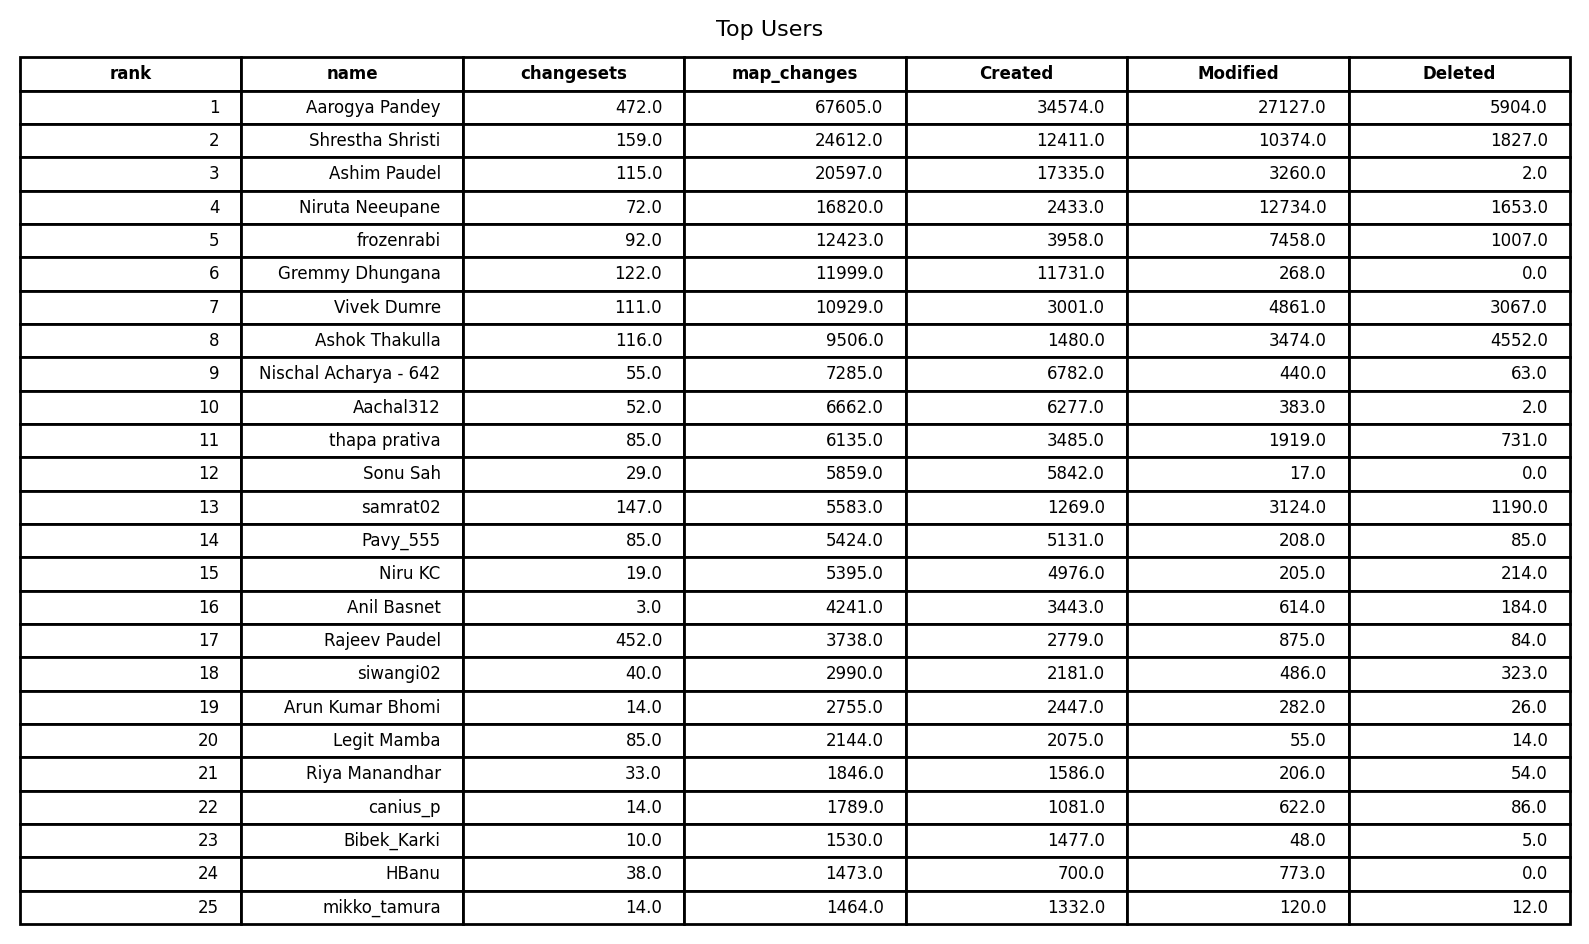
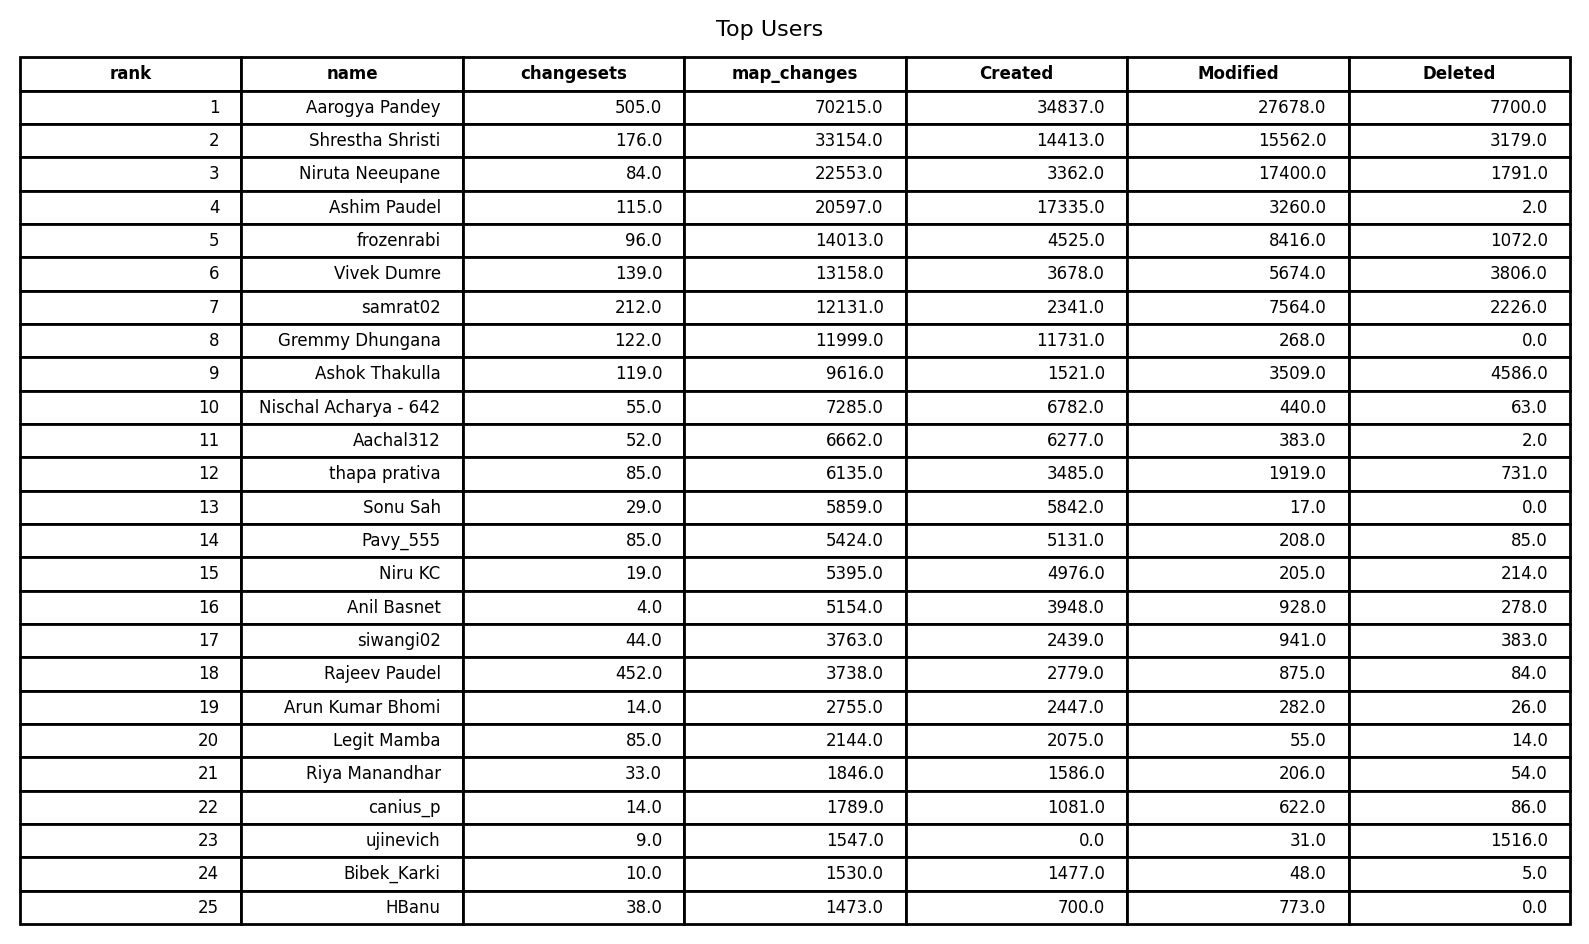
Updated Every2days SNRMPNepal stats

diff --git a/stats/SNRMPNepal/Every2days/Readme.md b/stats/SNRMPNepal/Every2days/Readme.md
@@ -1,60 +1,60 @@
-### Last Update : Stats from 2023-10-05 00:00:00+00:00 to 2023-12-11 03:06:46+00:00 (UTC Timezone)
+### Last Update : Stats from 2023-10-05 00:00:00+00:00 to 2023-12-13 03:06:16+00:00 (UTC Timezone)
 
-#### 81 Users made 2.9 thousand changesets with 257.7 thousand map changes.
-#### 153.7 thousand OSM Elements were Created, 81.8 thousand Modified & 22.1 thousand Deleted.
+#### 82 Users made 3.0 thousand changesets with 288.2 thousand map changes.
+#### 160.0 thousand OSM Elements were Created, 99.3 thousand Modified & 29.0 thousand Deleted.
 Get Full Stats at [stats.csv](/stats/SNRMPNepal/Every2days/stats.csv)
  & Get Summary Stats at [stats_summary.csv](/stats/SNRMPNepal/Every2days/stats_summary.csv)
 
 Top 5 Users are : 
-- Aarogya Pandey : 67.6 thousand Map Changes
-- Shrestha Shristi : 24.6 thousand Map Changes
+- Aarogya Pandey : 70.2 thousand Map Changes
+- Shrestha Shristi : 33.2 thousand Map Changes
+- Niruta Neeupane : 22.6 thousand Map Changes
 - Ashim Paudel : 20.6 thousand Map Changes
-- Niruta Neeupane : 16.8 thousand Map Changes
-- frozenrabi : 12.4 thousand Map Changes
+- frozenrabi : 14.0 thousand Map Changes
 
 Summary of Supplied Tags
-- poi = Created: 87, Modified : 227
-- building = Created: 2.0 thousand, Modified : 2.0 thousand
-- highway = Created: 3.7 thousand, Modified : 3.1 thousand
-- waterway = Created: 211, Modified : 449
-- amenity = Created: 2, Modified : 33
+- poi = Created: 96, Modified : 260
+- building = Created: 2.5 thousand, Modified : 2.1 thousand
+- highway = Created: 3.7 thousand, Modified : 3.5 thousand
+- waterway = Created: 228, Modified : 549
+- amenity = Created: 2, Modified : 40
 - highway length created = 1.3 thousand Km
 
 
 Top 5 Created tags are :
 - highway: 3.7 thousand
-- building: 2.0 thousand
-- waterway: 211
+- building: 2.5 thousand
+- waterway: 228
 - natural: 100
-- ford: 52
+- ford: 60
 
 
 Top 5 Modified tags are :
-- highway: 3.1 thousand
-- building: 2.0 thousand
-- surface: 557
-- name: 554
-- waterway: 449
+- highway: 3.5 thousand
+- building: 2.1 thousand
+- name: 670
+- surface: 635
+- waterway: 549
 
 
 Top 5 trending hashtags are:
-- #SNRMPNepal : 81 users
-- #OMGuru : 81 users
-- #aphub : 81 users
-- #startnetwork : 81 users
-- #hotosm-project-15639 : 55 users
+- #startnetwork : 82 users
+- #SNRMPNepal : 82 users
+- #aphub : 82 users
+- #OMGuru : 82 users
+- #hotosm-project-15639 : 56 users
 
 
 Top 5 trending editors are:
-- iD 2.21.1 : 42 users
+- iD 2.21.1 : 43 users
 - JOSM/1.5 (18822 en) : 29 users
-- JOSM/1.5 (18700 en) : 4 users
 - JOSM/1.5 (18772 en) : 4 users
-- RapiD 1.1.9-tm.1 : 2 users
+- JOSM/1.5 (18700 en) : 4 users
+- JOSM/1.5 (18427 en) : 2 users
 
 
 Top 5 trending Countries where user contributed are:
-- Nepal : 80 users
+- Nepal : 81 users
 - China : 6 users
 - India : 2 users
 
